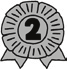
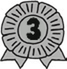
Add landing score moment feature with visual rewards and update UI components

diff --git a/apps/web/src/race3d-preview.tsx b/apps/web/src/race3d-preview.tsx
@@ -1,8 +1,12 @@
-import React, { useState } from "react";
+import React, { useEffect, useRef, useState } from "react";
 import ReactDOM from "react-dom/client";
 import { useTranslation } from "react-i18next";
 
 import { RaceTableScene } from "./components/race3d/RaceTableScene";
+import { RaceRewards } from "./components/RaceRewards";
+import { ActionMoment } from "./components/ActionMoment";
+import { landingScoreMoment, type ActionMoment as Moment } from "./eventPresentation";
+import { playCharacterScoreSound, playMoveSound, unlockGameAudio } from "./gameAudio";
 import { RaceTrack } from "./components/RaceTrack";
 import type { PlayerState } from "./protocol";
 import "./i18n";
@@ -33,33 +37,69 @@ function BoardPreview() {
   const [focus, setFocus] = useState<{ athleteId: string; close: boolean } | null>(null);
   const [showRacers, setShowRacers] = useState(true);
   const [view, setView] = useState("3d");
+  const [raceNumber, setRaceNumber] = useState(4);
+  const [moment, setMoment] = useState<Moment | null>(null);
+  const [demoBusy, setDemoBusy] = useState(false);
+  const timers = useRef<number[]>([]);
+  useEffect(() => () => timers.current.forEach(window.clearTimeout), []);
+  const rewards: [number, number][] = [[3, 1], [4, 2], [4, 2], [5, 3]];
+  function demoScore() {
+    unlockGameAudio();
+    timers.current.forEach(window.clearTimeout);
+    setDemoBusy(true);
+    setMoment(null);
+    setTrackName("WildWilds");
+    setShowRacers(true);
+    setFocus({ athleteId: "genius", close: true });
+    const before = demoPlayers.map((player, index) => index ? player : { ...player,
+      activeRacers: player.activeRacers.map(racer => ({ ...racer, position: 12, points: 0 })) });
+    setDemoPlayers(before);
+    timers.current = [window.setTimeout(() => {
+      const landed = before.map((player, index) => index ? player : { ...player,
+        activeRacers: player.activeRacers.map(racer => ({ ...racer, position: 13 })) });
+      setDemoPlayers(landed);
+      playMoveSound();
+      timers.current.push(window.setTimeout(() => {
+        setMoment(landingScoreMoment({ type: "RACER_MOVED", playerId: "p0", athleteId: "genius", from: 12, to: 13 }, "WildWilds", landed, t));
+        setDemoPlayers(landed.map((player, index) => index ? player : { ...player,
+          activeRacers: player.activeRacers.map(racer => ({ ...racer, points: 1 })) }));
+        playCharacterScoreSound();
+        timers.current.push(window.setTimeout(() => { setMoment(null); setDemoBusy(false); }, 2300));
+      }, 340));
+    }, 700)];
+  }
   const trackTitle = trackName === "Standard" ? "Mild Mile" : "Wild Wilds";
   const visiblePlayers = showRacers ? demoPlayers : [];
 
   return <main className={`table ${view === "3d" ? "immersive-race" : ""}`}><section className="stage race-stage">
-  <div className="race-heading"><div><p className="kicker">{t("preview.title")}</p><h2>{trackTitle}</h2></div></div>
+  <div className="race-heading"><div><p className="kicker">{t("preview.title")}</p><h2>{trackTitle}</h2></div><RaceRewards rewards={rewards[raceNumber - 1]} /></div>
   <div className="board-preview-controls">
+    <label>{t("preview.rewards")} <select value={raceNumber} onChange={event => setRaceNumber(Number(event.target.value))}>
+      {rewards.map(([gold, silver], index) => <option key={index} value={index + 1}>{t("preview.raceRewards", { race: index + 1, gold, silver })}</option>)}
+    </select></label>
+    <button className="command primary" disabled={demoBusy} onClick={demoScore}>{t("preview.demoScore")}</button>
     <div className="variant-control" aria-label={t("preview.selectTrack")}>
       <button className={trackName === "Standard" ? "active" : ""} aria-pressed={trackName === "Standard"}
-        onClick={() => setTrackName("Standard")}>Mild Mile</button>
+        disabled={demoBusy} onClick={() => setTrackName("Standard")}>Mild Mile</button>
       <button className={trackName === "WildWilds" ? "active" : ""} aria-pressed={trackName === "WildWilds"}
-        onClick={() => setTrackName("WildWilds")}>Wild Wilds</button>
+        disabled={demoBusy} onClick={() => setTrackName("WildWilds")}>Wild Wilds</button>
     </div>
     <div className="variant-control" aria-label={t("preview.view")}>
       <button className={view === "3d" ? "active" : ""} aria-pressed={view === "3d"} onClick={() => setView("3d")}>{t("preview.perspective")}</button>
       <button className={view === "2d" ? "active" : ""} aria-pressed={view === "2d"} onClick={() => setView("2d")}>{t("preview.topDown")}</button>
     </div>
     <button className="command secondary" aria-pressed={showRacers}
-      onClick={() => setShowRacers(!showRacers)}>{showRacers ? t("preview.hidePieces") : t("preview.showPieces")}</button>
-    <button className="command secondary" onClick={() => {
+      disabled={demoBusy} onClick={() => setShowRacers(!showRacers)}>{showRacers ? t("preview.hidePieces") : t("preview.showPieces")}</button>
+    <button className="command secondary" disabled={demoBusy} onClick={() => {
       setFocus({ athleteId: "genius", close: true });
       setDemoPlayers((current) => current.map((player, index) => index ? player : { ...player,
         activeRacers: player.activeRacers.map((racer) => ({ ...racer, position: (racer.position + 1) % 30 })) }));
     }}>{t("preview.demoMove")}</button>
-    <button className="command secondary" onClick={() => setFocus({ athleteId: "banana", close: true })}>{t("preview.abilityCloseUp")}</button>
+    <button className="command secondary" disabled={demoBusy} onClick={() => setFocus({ athleteId: "banana", close: true })}>{t("preview.abilityCloseUp")}</button>
   </div>
-  {view === "2d" ? <div className="track-wrap"><RaceTrack players={visiblePlayers} finishLine={30} trackName={trackName} /></div>
-    : <RaceTableScene focus={focus} activePlayerId="p0" players={visiblePlayers} finishLine={30} trackName={trackName} dice={{
+  {view === "2d" && moment && <ActionMoment moment={moment} />}
+  {view === "2d" ? <div className="track-wrap"><RaceTrack moment={moment} players={visiblePlayers} finishLine={30} trackName={trackName} /></div>
+    : <RaceTableScene moment={moment} focus={focus} activePlayerId="p0" players={visiblePlayers} finishLine={30} trackName={trackName} dice={{
     enabled: false,
     targetValue: null,
     restingValue: 4,

diff --git a/apps/web/src/App.tsx b/apps/web/src/App.tsx
@@ -1,3 +1,4 @@
+import { RaceRewards } from "./components/RaceRewards";
 import type { TFunction } from "i18next";
 import { useTranslation } from "react-i18next";
 
@@ -13,7 +14,7 @@ import { lazy, Suspense, useEffect, useMemo, useRef, useState, type CSSPropertie
 import { decisionResolution, decisionTitle, decisionPrompt, decisionOptionLabel, resolvedDecisionDialog, type DecisionDialogState } from "./decisionPresentation";
 import { ActionMoment } from "./components/ActionMoment";
 import { TauntPanel, propEmoji } from "./components/TauntPanel";
-import { actionMoment, eventText, isRedundantAbilityEvent, rollOffPresentation, type ActionMoment as Moment } from "./eventPresentation";
+import { actionMoment, landingScoreMoment, eventText, isRedundantAbilityEvent, rollOffPresentation, type ActionMoment as Moment } from "./eventPresentation";
 import { RaceTrack } from "./components/RaceTrack";
 import { actionId, clearSession, GameClient, loadSession, roomFromPath, saveSession } from "./gameClient";
 import type { ActiveRacer, AthleteCard, ClientIntent, GameEvent, PropThrow, RoomSnapshot, ServerMessage } from "./protocol";
@@ -726,6 +727,16 @@ export default function App() {
               await pause(use3DRaceTable ? 340 : 220);
             }
           }
+          const award = landingScoreMoment(event, working.game.trackName, working.game.players, t);
+          if (award) {
+            if (cancelled()) return;
+            racer.points += award.scoreAmount!;
+            if (!publish()) return;
+            setMoment(award);
+            playCharacterScoreSound();
+            await pause(1600);
+            if (cancelled()) return;
+          }
         }
       }
       if (event.type === "RACER_TRIPPED" && event.athleteId) {
@@ -895,7 +906,7 @@ export default function App() {
 
       {game!.phase === "RACING" && (
         <section className="race-stage stage">
-          <div className="race-heading"><div><p className="kicker">RACE {game!.raceNumber} / 4</p><h2>{tracks[game!.raceNumber - 1]}</h2></div><div className="reward"><span>🏆 {game!.raceRewards[0]}</span><span>◉ {game!.raceRewards[1]}</span></div></div>
+          <div className="race-heading"><div><p className="kicker">RACE {game!.raceNumber} / 4</p><h2>{tracks[game!.raceNumber - 1]}</h2></div><RaceRewards rewards={game!.raceRewards} /></div>
           {moment && !use3DRaceTable && <div className="race-moment-slot"><ActionMoment moment={moment} /></div>}
           {use3DRaceTable ? <Suspense fallback={<div className="race-table-loading" aria-label={t("race.loading")} />}>
             <RaceTableScene decision={decisionPanel} taunts={taunts} onPropImpact={handlePropImpact} turnKey={rollAnimation?.autoThrow ? `playback-${rollAnimation.revision}-${rollAnimation.index}` : raceDiceTurnKey(game!, playbackBusy)} moment={moment} focus={cameraFocus ?? (game!.pendingDecision ? { athleteId: game!.pendingDecision.athleteId, playerId: game!.pendingDecision.playerId, close: true } : raceRollFocus(game!))} activePlayerId={game!.activePlayerId} players={game!.players} finishLine={game!.finishLine} trackName={game!.trackName} dice={{

diff --git a/apps/web/src/eventPresentation.ts b/apps/web/src/eventPresentation.ts
@@ -6,7 +6,7 @@ import { abilityTitleText, decisionOptionLabel } from "./decisionPresentation";
 import type { GameEvent, PlayerState, RoomSnapshot } from "./protocol";
 
 export type Participant = { playerId?: string; athleteId?: string; name: string; owner: string };
-export type ActionMoment = { source: Participant; target: Participant; cause: string; effect: string; from?: number; to?: number };
+export type ActionMoment = { source: Participant; target: Participant; cause: string; effect: string; scoreAmount?: number; from?: number; to?: number };
 
 // The wire name is the English card face, so it only stands in when the catalog
 // has no entry for the racer id.
@@ -230,4 +230,18 @@ export function rollOffPresentation(
       ? t("race:rollOff.tie", { names: tie.playerIds?.map(name).join(t("race:listSeparator")) })
       : "";
   return { display, outcome, winnerId: winner?.playerId };
+}
+
+// Landing feedback comes from the existing movement endpoint, never intermediate steps.
+export function landingScoreMoment(event: GameEvent, trackName: string, players: PlayerState[], t: TFunction = i18n.t): ActionMoment | null {
+  if (trackName !== "WildWilds" || !["RACER_MOVED", "RACER_WARPED"].includes(event.type)
+    || (event.to !== 1 && event.to !== 13) || event.from === event.to) return null;
+  const racer = players.find(p => p.id === event.playerId)?.activeRacers.find(r => r.id === event.athleteId);
+  if (!racer || racer.finished || racer.eliminated) return null;
+  const target = participant(t, players, event.playerId, event.athleteId);
+  return {
+    source: { name: t("race:source.tile"), owner: "" }, target,
+    cause: t("race:moment.cause.VictoryPointTile", { target: target.name }),
+    effect: t("race:moment.effect.scored", { count: 1 }), scoreAmount: 1,
+  };
 }

diff --git a/apps/web/src/eventPresentation.test.ts b/apps/web/src/eventPresentation.test.ts
@@ -1,6 +1,6 @@
 import { describe, expect, it } from "vitest";
 import type { PlayerState, RoomSnapshot } from "./protocol";
-import { actionMoment, eventText, rollOffPresentation } from "./eventPresentation";
+import { landingScoreMoment, actionMoment, eventText, rollOffPresentation } from "./eventPresentation";
 
 const players = [
   { id: "p1", name: "小明", rollValues: [6, 2], activeRacers: [{ id: "centaur", name: "Centaur" }], team: [] },
@@ -133,4 +133,19 @@ describe("race feed sentences", () => {
     expect(eventText({ type: "TRIP_RECOVERED", playerId: "p1", athleteId: "centaur" }, players))
       .toBe("小明 的半人马从绊倒中恢复，跳过本次移动");
   });
+});
+
+it.each([1, 13])("presents a star award for landing on Wild Wilds space %i", (to) => {
+  const moment = landingScoreMoment({ type: "RACER_MOVED", playerId: "p2", athleteId: "banana", from: 0, to }, "WildWilds", players)!;
+  expect(moment.target.athleteId).toBe("banana");
+  expect(moment.scoreAmount).toBe(1);
+  expect(moment.effect).toBe("获得 1 分");
+});
+
+it("does not award points for passing, staying still, or the Standard board", () => {
+  const move = { type: "RACER_MOVED", playerId: "p2", athleteId: "banana", from: 0, to: 2 };
+  expect(landingScoreMoment(move, "WildWilds", players)).toBeNull();
+  expect(landingScoreMoment({ ...move, from: 1, to: 1 }, "WildWilds", players)).toBeNull();
+  expect(landingScoreMoment({ ...move, to: 1 }, "Standard", players)).toBeNull();
+  expect(landingScoreMoment({ ...move, type: "RACER_WARPED", to: 13 }, "WildWilds", players)?.scoreAmount).toBe(1);
 });

diff --git a/apps/web/src/App.playback.test.tsx b/apps/web/src/App.playback.test.tsx
@@ -465,3 +465,25 @@ it("keeps a queued Bot throw automatic even while the local throw is settling", 
   expect(scene().dice.autoThrow).toBe(true);
   expect(scene().focus?.athleteId).toBe("legs");
 });
+
+it("plays a star award after landing and preserves the authoritative score", async () => {
+  const { playCharacterScoreSound } = await import("./gameAudio");
+  vi.mocked(playCharacterScoreSound).mockClear();
+  await join(game({ trackName: "WildWilds" }));
+  const final = game({ trackName: "WildWilds" });
+  final.players[0].activeRacers[0].position = 1;
+  final.players[0].activeRacers[0].points = 1;
+  const message: ServerMessage = { type: "STATE_UPDATED", roomId: "TEST", revision: 2, game: final, rollResults: [], events: [
+    { type: "RACER_MOVED", playerId: "human", athleteId: "banana", from: 0, to: 1 },
+  ] };
+  await receive(message);
+  expect(playCharacterScoreSound).not.toHaveBeenCalled();
+  await advance(2800);
+  expect(scene().players[0].activeRacers[0].position).toBe(1);
+  expect(scene().players[0].activeRacers[0].points).toBe(1);
+  expect(scene().moment?.scoreAmount).toBe(1);
+  expect(playCharacterScoreSound).toHaveBeenCalledTimes(1);
+  await advance(4000);
+  expect(playCharacterScoreSound).toHaveBeenCalledTimes(1);
+  expect(scene().players[0].activeRacers[0].points).toBe(1);
+});

diff --git a/apps/web/src/styles.css b/apps/web/src/styles.css
@@ -530,3 +530,13 @@ input:focus { border-color: #287fc2; box-shadow: 0 0 0 3px rgba(40,127,194,.18);
 .immersive-race:has(.spectator-bar) .race-heading { top: 124px; }
 .immersive-race:has(.spectator-bar) .race-console { top: 202px; }
 .immersive-race:has(.spectator-bar) .race-leaderboard { top: 260px; }
+
+.reward img { display: block; width: 48px; height: 48px; object-fit: contain; }
+.score-star-award { width: 64px; height: 64px; object-fit: contain; justify-self: center; animation: score-star-award 1.6s ease-out both; }
+@keyframes score-star-award {
+  0% { opacity: 0; transform: translateY(20px) scale(.3) rotate(-25deg); }
+  30% { opacity: 1; transform: translateY(-6px) scale(1.2) rotate(10deg); filter: drop-shadow(0 0 12px #ffd34e); }
+  55% { transform: translateY(0) scale(1) rotate(0); }
+  100% { transform: translateY(-5px); filter: drop-shadow(0 0 4px #ffd34e); }
+}
+@media (prefers-reduced-motion: reduce) { .score-star-award { animation: none; } }

diff --git a/apps/web/src/components/ActionMoment.tsx b/apps/web/src/components/ActionMoment.tsx
@@ -18,7 +18,7 @@ export function ActionMoment({ moment }: { moment: Moment }) {
     <p>{moment.cause}</p>
     <div className="moment-flow">
       <Actor actor={moment.source} label={t("momentFlow.source")} diceText={diceText} />
-      <div className="moment-effect"><span aria-hidden="true">⟶</span><strong>{moment.effect}</strong>
+      <div className="moment-effect">{moment.scoreAmount !== undefined ? <img key={`${moment.target.playerId}-${moment.target.athleteId}`} className="score-star-award" src={assetUrl("assets/score-chips/star-1.webp")} alt="" /> : <span aria-hidden="true">⟶</span>}<strong>{moment.effect}</strong>
         {moment.from !== undefined && moment.to !== undefined && <div className="moment-positions"><b>{moment.from}</b><span>→</span><b>{moment.to}</b><small>{t("momentFlow.space")}</small></div>}
       </div>
       <Actor actor={moment.target} label={t("momentFlow.target")} diceText={diceText} />

diff --git a/apps/web/src/components/RaceRewards.tsx b/apps/web/src/components/RaceRewards.tsx
@@ -1,0 +1,10 @@
+import { useTranslation } from "react-i18next";
+import { assetUrl } from "../runtimeConfig";
+
+export function RaceRewards({ rewards }: { rewards: readonly [number, number] }) {
+  const { t } = useTranslation();
+  return <div className="reward">
+    <span><img src={assetUrl(`assets/score-chips/gold-trophy-${rewards[0]}.webp`)} alt={`${t("race:rewards.first")} ${rewards[0]}`} /></span>
+    <span><img src={assetUrl(`assets/score-chips/silver-rosette-${rewards[1]}.webp`)} alt={`${t("race:rewards.second")} ${rewards[1]}`} /></span>
+  </div>;
+}
